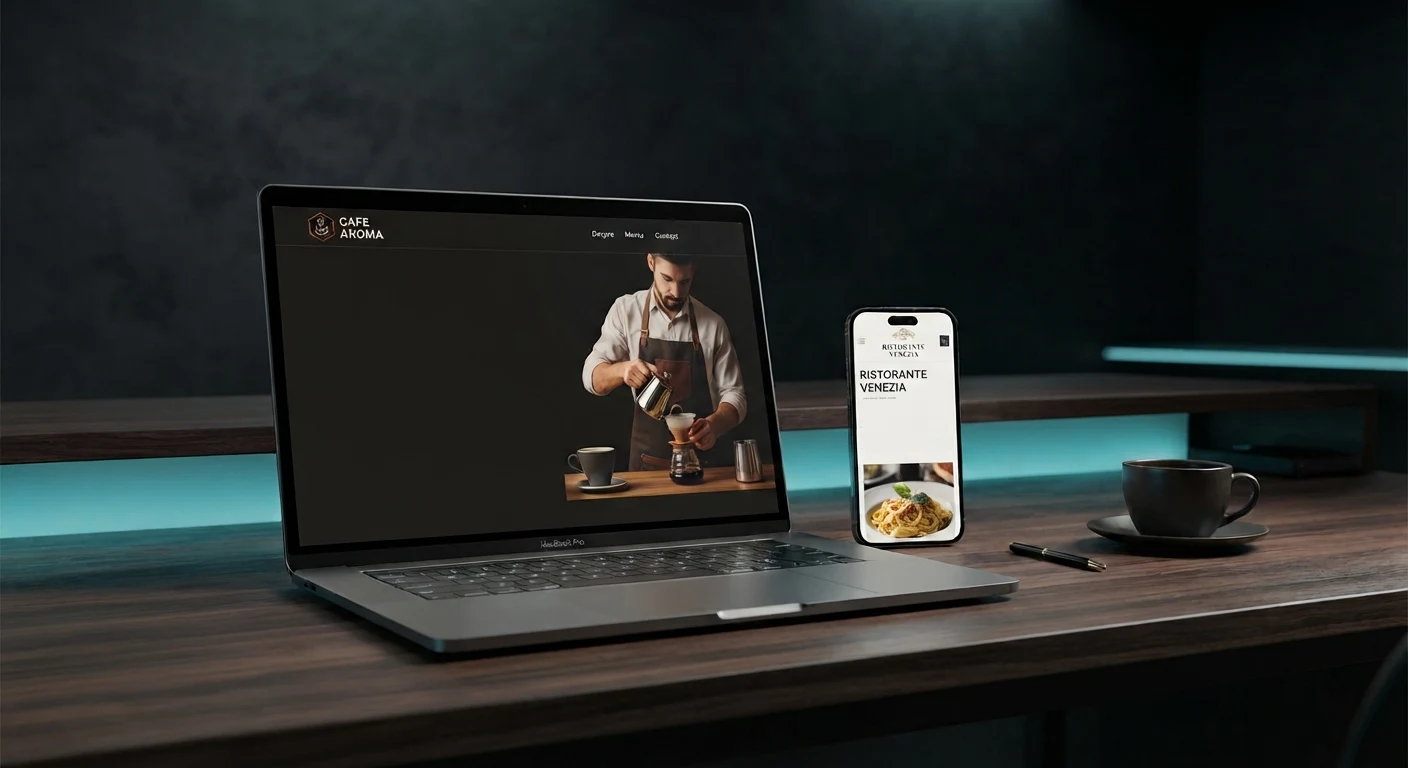
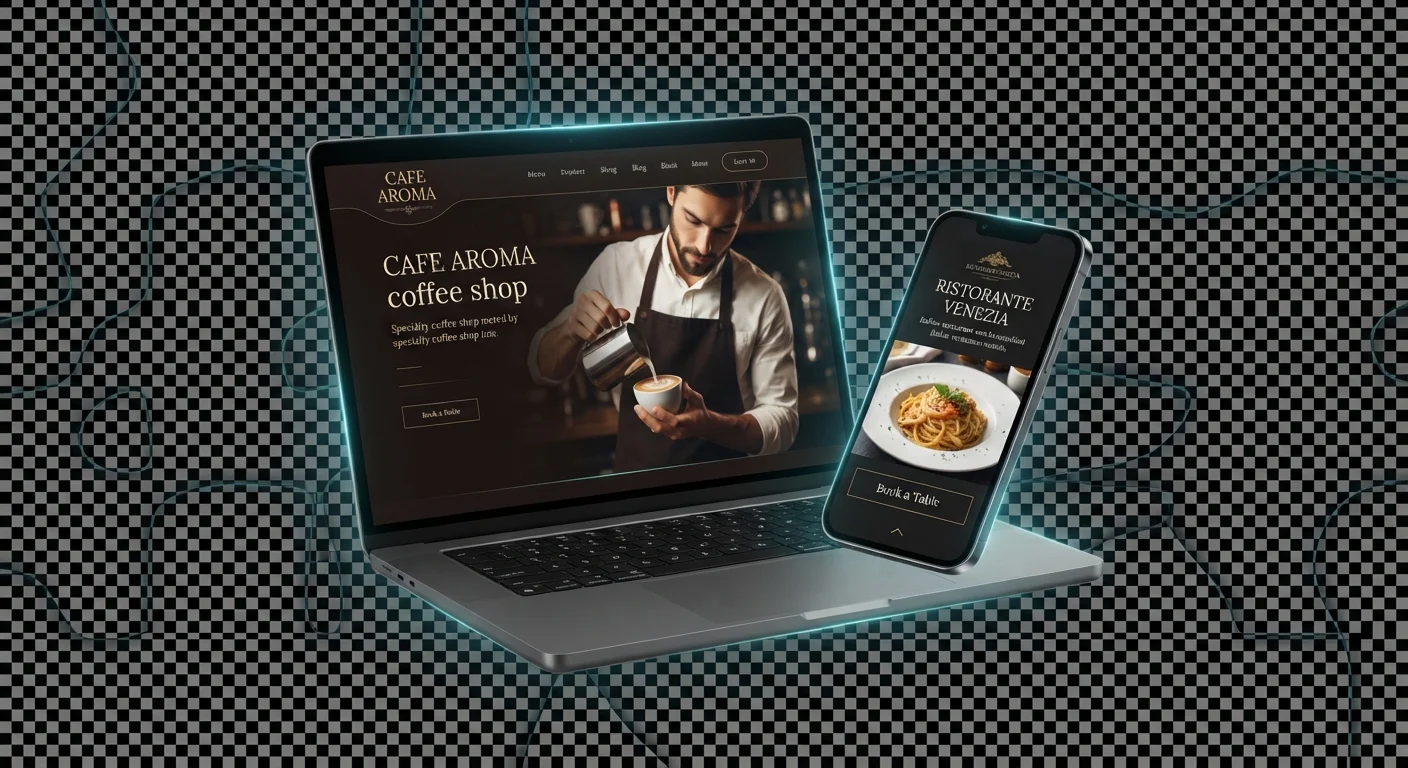
Actualizare imagine hero cu varianta transparenta

diff --git a/public/assets/css/style-new.css b/public/assets/css/style-new.css
@@ -445,19 +445,24 @@ body {
 
 .hero-main-img {
     width: 100%;
-    max-width: 750px;
+    max-width: 780px;
     height: auto;
-    border-radius: 20px;
-    box-shadow: 0 20px 50px rgba(0,0,0,0.5);
+    box-shadow: 0 30px 60px rgba(0,0,0,0.45);
     transition: var(--transition);
     position: relative;
     z-index: 2;
-    border: 1px solid rgba(255,255,255,0.05);
 }
 
 .hero-main-img:hover {
-    transform: scale(1.02);
-    border-color: rgba(0, 119, 255, 0.5);
+    transform: scale(1.01);
+    box-shadow: 0 40px 80px rgba(0,119,255,0.2);
+}
+
+@media (max-width: 768px) {
+    .hero-main-img {
+        max-width: 90%;
+        margin-top: 2rem;
+    }
 }
 
 @media (max-width: 768px) {
